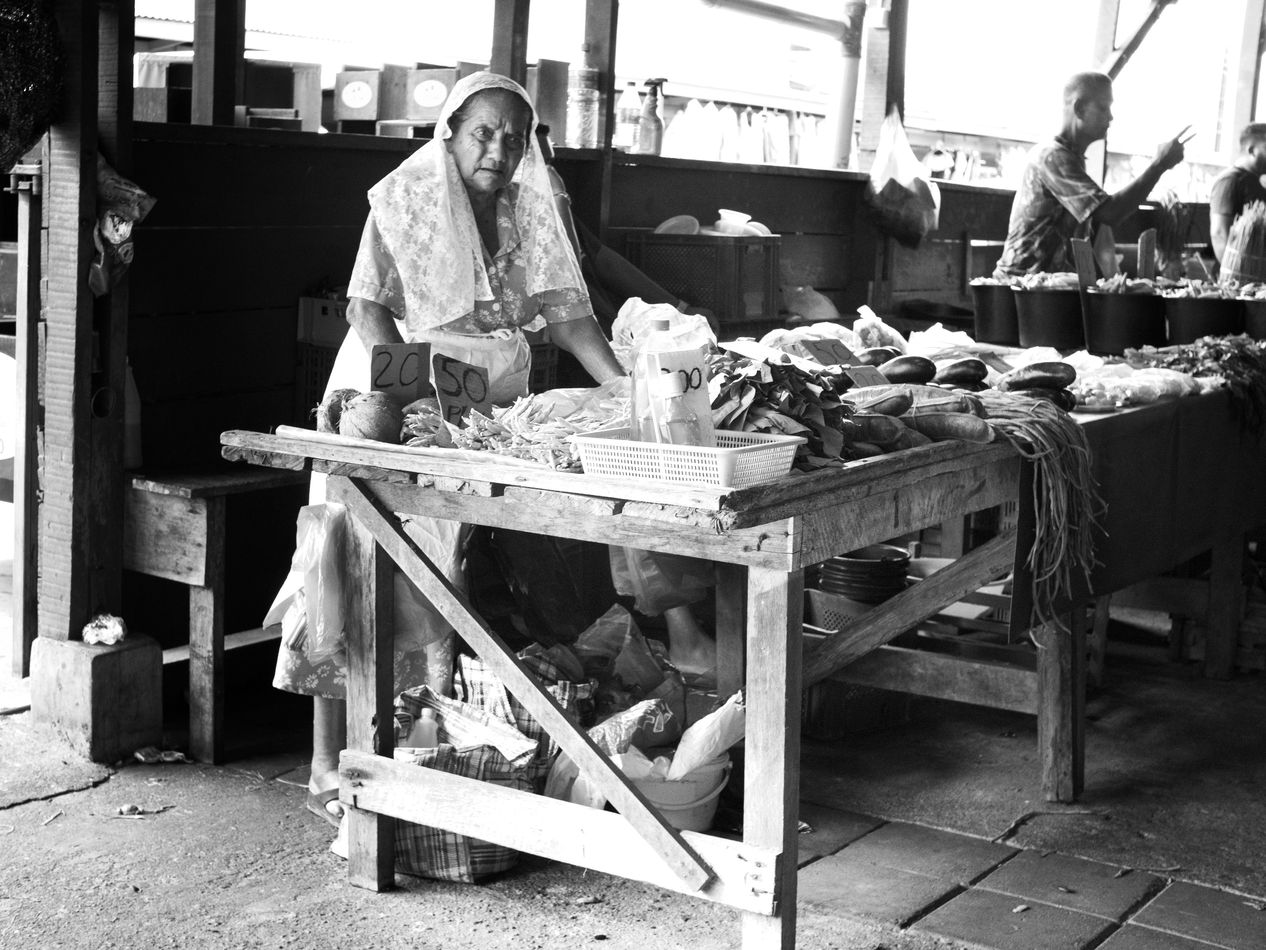
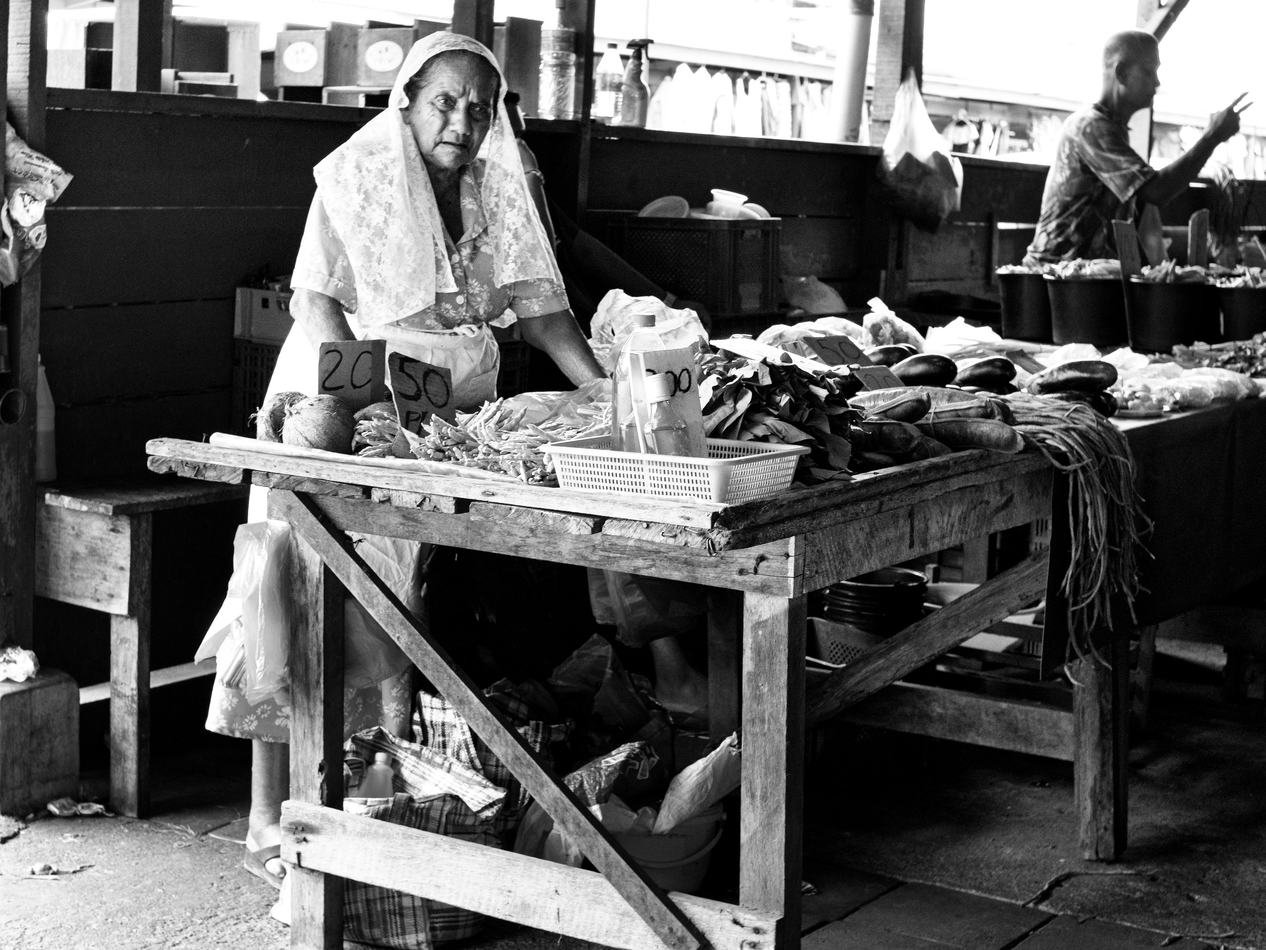
photo: publish reviewed fh-0085

diff --git a/photography/everything/index.html b/photography/everything/index.html
@@ -107,7 +107,7 @@
           <a class="ev-item" href="/photography/p/fh-0094/" style="--r:1.3333;--tilt:-0.02deg" data-place="suriname" data-tone="bw" data-v-src="/photography/photos/2026/fh-0094.jpg?rev=96bccf48eaa41582907d726473a6a912c49e7d84bbbd323010bdfc617bcc0fec" data-v-w="2560" data-v-h="1920" data-v-title="Kwatta market entry" data-v-desc="Two women at the Kwatta market entry. One is adjusting her hair and Brazil baseball hat while the other looks over her shoulder into the distance." data-v-meta="Paramaribo · 30 September 2026, 09:59:47" data-v-from="From More September markets, 20th &amp; 30th, frame 1" data-v-from-href="/photography/sheets/2026-09-september-markets/#frame-1" data-v-wall="On the black and white wall, place 5" data-v-wall-href="/photography/#wall-bw"><img src="/cdn-cgi/image/width=300,fit=scale-down,format=auto/photography/photos/2026/fh-0094.jpg?rev=96bccf48eaa41582907d726473a6a912c49e7d84bbbd323010bdfc617bcc0fec" srcset="/cdn-cgi/image/width=300,fit=scale-down,format=auto/photography/photos/2026/fh-0094.jpg?rev=96bccf48eaa41582907d726473a6a912c49e7d84bbbd323010bdfc617bcc0fec 300w, /cdn-cgi/image/width=600,fit=scale-down,format=auto/photography/photos/2026/fh-0094.jpg?rev=96bccf48eaa41582907d726473a6a912c49e7d84bbbd323010bdfc617bcc0fec 600w" sizes="(max-width: 760px) 120px, 217px" data-orig="/photography/photos/2026/fh-0094.jpg?rev=96bccf48eaa41582907d726473a6a912c49e7d84bbbd323010bdfc617bcc0fec" width="2560" height="1920" alt="Two women at the Kwatta market entry. One is adjusting her hair and Brazil baseball hat while the other looks over her shoulder into the distance." loading="lazy" decoding="async"><span class="ev-cap" aria-hidden="true">Kwatta market entry</span></a>
           <a class="ev-item" href="/photography/p/fh-0099/" style="--r:1.3333;--tilt:0.42deg" data-place="suriname" data-tone="bw" data-v-src="/photography/photos/2026/fh-0099.jpg?rev=d26bb1501d71a259e38e7f41c6303a270de6aceccd259e87aeefb9f3c2bda934" data-v-w="2560" data-v-h="1920" data-v-title="Frame 6, More September markets, 20th &amp; 30th" data-v-desc="The torso of a lady coming from the Sunday market wearing a white shirt with a striped shirt underneath that." data-v-meta="Paramaribo · 20 September 2026, 12:50:24" data-v-from="From More September markets, 20th &amp; 30th, frame 6" data-v-from-href="/photography/sheets/2026-09-september-markets/#frame-6" data-v-wall="" data-v-wall-href=""><img src="/cdn-cgi/image/width=300,fit=scale-down,format=auto/photography/photos/2026/fh-0099.jpg?rev=d26bb1501d71a259e38e7f41c6303a270de6aceccd259e87aeefb9f3c2bda934" srcset="/cdn-cgi/image/width=300,fit=scale-down,format=auto/photography/photos/2026/fh-0099.jpg?rev=d26bb1501d71a259e38e7f41c6303a270de6aceccd259e87aeefb9f3c2bda934 300w, /cdn-cgi/image/width=600,fit=scale-down,format=auto/photography/photos/2026/fh-0099.jpg?rev=d26bb1501d71a259e38e7f41c6303a270de6aceccd259e87aeefb9f3c2bda934 600w" sizes="(max-width: 760px) 120px, 217px" data-orig="/photography/photos/2026/fh-0099.jpg?rev=d26bb1501d71a259e38e7f41c6303a270de6aceccd259e87aeefb9f3c2bda934" width="2560" height="1920" alt="The torso of a lady coming from the Sunday market wearing a white shirt with a striped shirt underneath that." loading="lazy" decoding="async"><span class="ev-cap" aria-hidden="true">Frame 6, More September markets, 20th &amp; 30th</span></a>
           <a class="ev-item" href="/photography/p/fh-0098/" style="--r:1.3326;--tilt:-0.07deg" data-place="suriname" data-tone="bw" data-v-src="/photography/photos/2026/fh-0098.jpg?rev=8652f5dbf4387ea09c738aa854f036c93f4d0110fc0e1dc6d9416de8c3fdb4c5" data-v-w="2560" data-v-h="1921" data-v-title="Frame 5, More September markets, 20th &amp; 30th" data-v-desc="Man at the Sunday market on the Grote Combeweg, enjoying his cigarette, smelling stem of leaves from a fresh herbal plant." data-v-meta="Paramaribo · 20 September 2026, 12:49:17" data-v-from="From More September markets, 20th &amp; 30th, frame 5" data-v-from-href="/photography/sheets/2026-09-september-markets/#frame-5" data-v-wall="" data-v-wall-href=""><img src="/cdn-cgi/image/width=300,fit=scale-down,format=auto/photography/photos/2026/fh-0098.jpg?rev=8652f5dbf4387ea09c738aa854f036c93f4d0110fc0e1dc6d9416de8c3fdb4c5" srcset="/cdn-cgi/image/width=300,fit=scale-down,format=auto/photography/photos/2026/fh-0098.jpg?rev=8652f5dbf4387ea09c738aa854f036c93f4d0110fc0e1dc6d9416de8c3fdb4c5 300w, /cdn-cgi/image/width=600,fit=scale-down,format=auto/photography/photos/2026/fh-0098.jpg?rev=8652f5dbf4387ea09c738aa854f036c93f4d0110fc0e1dc6d9416de8c3fdb4c5 600w" sizes="(max-width: 760px) 120px, 217px" data-orig="/photography/photos/2026/fh-0098.jpg?rev=8652f5dbf4387ea09c738aa854f036c93f4d0110fc0e1dc6d9416de8c3fdb4c5" width="2560" height="1921" alt="Man at the Sunday market on the Grote Combeweg, enjoying his cigarette, smelling stem of leaves from a fresh herbal plant." loading="lazy" decoding="async"><span class="ev-cap" aria-hidden="true">Frame 5, More September markets, 20th &amp; 30th</span></a>
-          <a class="ev-item" href="/photography/p/fh-0085/" style="--r:1.3333;--tilt:-0.06deg" data-place="suriname" data-tone="bw" data-v-src="/photography/photos/2026/fh-0085.jpg?rev=48194a28650fb71476a9ce42c40a056d6bbbbbbdcf239d1583c1b36d1fff10d3" data-v-w="2560" data-v-h="1920" data-v-title="Frame 5, 16 September, the market" data-v-desc="An older woman in a lace headscarf stands behind her market table, greens and aubergines laid out with handwritten price cards." data-v-meta="16 September 2026, 11:32" data-v-from="From 16 September, the market, frame 5" data-v-from-href="/photography/sheets/2026-09-16-market/#frame-5" data-v-wall="" data-v-wall-href=""><img src="/cdn-cgi/image/width=300,fit=scale-down,format=auto/photography/photos/2026/fh-0085.jpg?rev=48194a28650fb71476a9ce42c40a056d6bbbbbbdcf239d1583c1b36d1fff10d3" srcset="/cdn-cgi/image/width=300,fit=scale-down,format=auto/photography/photos/2026/fh-0085.jpg?rev=48194a28650fb71476a9ce42c40a056d6bbbbbbdcf239d1583c1b36d1fff10d3 300w, /cdn-cgi/image/width=600,fit=scale-down,format=auto/photography/photos/2026/fh-0085.jpg?rev=48194a28650fb71476a9ce42c40a056d6bbbbbbdcf239d1583c1b36d1fff10d3 600w" sizes="(max-width: 760px) 120px, 217px" data-orig="/photography/photos/2026/fh-0085.jpg?rev=48194a28650fb71476a9ce42c40a056d6bbbbbbdcf239d1583c1b36d1fff10d3" width="2560" height="1920" alt="An older woman in a lace headscarf stands behind her market table, greens and aubergines laid out with handwritten price cards." loading="lazy" decoding="async"><span class="ev-cap" aria-hidden="true">Frame 5, 16 September, the market</span></a>
+          <a class="ev-item" href="/photography/p/fh-0085/" style="--r:1.3326;--tilt:-0.06deg" data-place="suriname" data-tone="bw" data-v-src="/photography/photos/2026/fh-0085.jpg?rev=d2197e35e6f573376fac03a990ac7667700d8f3621ca6a68453bbbf493c1e3f8" data-v-w="2560" data-v-h="1921" data-v-title="Frame 5, 16 September, the market" data-v-desc="An older woman in a lace headscarf stands behind her market table, greens and aubergines laid out with handwritten price cards." data-v-meta="16 September 2026, 11:32" data-v-from="From 16 September, the market, frame 5" data-v-from-href="/photography/sheets/2026-09-16-market/#frame-5" data-v-wall="" data-v-wall-href=""><img src="/cdn-cgi/image/width=300,fit=scale-down,format=auto/photography/photos/2026/fh-0085.jpg?rev=d2197e35e6f573376fac03a990ac7667700d8f3621ca6a68453bbbf493c1e3f8" srcset="/cdn-cgi/image/width=300,fit=scale-down,format=auto/photography/photos/2026/fh-0085.jpg?rev=d2197e35e6f573376fac03a990ac7667700d8f3621ca6a68453bbbf493c1e3f8 300w, /cdn-cgi/image/width=600,fit=scale-down,format=auto/photography/photos/2026/fh-0085.jpg?rev=d2197e35e6f573376fac03a990ac7667700d8f3621ca6a68453bbbf493c1e3f8 600w" sizes="(max-width: 760px) 120px, 217px" data-orig="/photography/photos/2026/fh-0085.jpg?rev=d2197e35e6f573376fac03a990ac7667700d8f3621ca6a68453bbbf493c1e3f8" width="2560" height="1921" alt="An older woman in a lace headscarf stands behind her market table, greens and aubergines laid out with handwritten price cards." loading="lazy" decoding="async"><span class="ev-cap" aria-hidden="true">Frame 5, 16 September, the market</span></a>
           <a class="ev-item" href="/photography/p/fh-0084/" style="--r:1.3333;--tilt:0.33deg" data-place="suriname" data-tone="bw" data-v-src="/photography/photos/2026/fh-0084.jpg?rev=7eb1b7d4a69b5e9d3864c0ec6f4d03da9401060444bb5ab143377579bb47c31a" data-v-w="2560" data-v-h="1920" data-v-title="Frame 4, 16 September, the market" data-v-desc="Two hands meet over a market table as money changes hands. A man in sunglasses stands at the stall and the seller sits behind it in a white headscarf." data-v-meta="16 September 2026, 11:25" data-v-from="From 16 September, the market, frame 4" data-v-from-href="/photography/sheets/2026-09-16-market/#frame-4" data-v-wall="" data-v-wall-href=""><img src="/cdn-cgi/image/width=300,fit=scale-down,format=auto/photography/photos/2026/fh-0084.jpg?rev=7eb1b7d4a69b5e9d3864c0ec6f4d03da9401060444bb5ab143377579bb47c31a" srcset="/cdn-cgi/image/width=300,fit=scale-down,format=auto/photography/photos/2026/fh-0084.jpg?rev=7eb1b7d4a69b5e9d3864c0ec6f4d03da9401060444bb5ab143377579bb47c31a 300w, /cdn-cgi/image/width=600,fit=scale-down,format=auto/photography/photos/2026/fh-0084.jpg?rev=7eb1b7d4a69b5e9d3864c0ec6f4d03da9401060444bb5ab143377579bb47c31a 600w" sizes="(max-width: 760px) 120px, 217px" data-orig="/photography/photos/2026/fh-0084.jpg?rev=7eb1b7d4a69b5e9d3864c0ec6f4d03da9401060444bb5ab143377579bb47c31a" width="2560" height="1920" alt="Two hands meet over a market table as money changes hands. A man in sunglasses stands at the stall and the seller sits behind it in a white headscarf." loading="lazy" decoding="async"><span class="ev-cap" aria-hidden="true">Frame 4, 16 September, the market</span></a>
           <a class="ev-item" href="/photography/p/fh-0083/" style="--r:1.3333;--tilt:0.74deg" data-place="suriname" data-tone="bw" data-v-src="/photography/photos/2026/fh-0083.jpg?rev=afe93000277b1ca3fc66fe35ea94bcbbd86a07576a92ae240781e07c3e8441c3" data-v-w="2560" data-v-h="1920" data-v-title="Frame 3, 16 September, the market" data-v-desc="A vegetable seller sits behind his stall, framed from the chest down. Long beans and bitter gourd are spread on foil in front of him with handwritten price cards." data-v-meta="16 September 2026, 11:25" data-v-from="From 16 September, the market, frame 3" data-v-from-href="/photography/sheets/2026-09-16-market/#frame-3" data-v-wall="" data-v-wall-href=""><img src="/cdn-cgi/image/width=300,fit=scale-down,format=auto/photography/photos/2026/fh-0083.jpg?rev=afe93000277b1ca3fc66fe35ea94bcbbd86a07576a92ae240781e07c3e8441c3" srcset="/cdn-cgi/image/width=300,fit=scale-down,format=auto/photography/photos/2026/fh-0083.jpg?rev=afe93000277b1ca3fc66fe35ea94bcbbd86a07576a92ae240781e07c3e8441c3 300w, /cdn-cgi/image/width=600,fit=scale-down,format=auto/photography/photos/2026/fh-0083.jpg?rev=afe93000277b1ca3fc66fe35ea94bcbbd86a07576a92ae240781e07c3e8441c3 600w" sizes="(max-width: 760px) 120px, 217px" data-orig="/photography/photos/2026/fh-0083.jpg?rev=afe93000277b1ca3fc66fe35ea94bcbbd86a07576a92ae240781e07c3e8441c3" width="2560" height="1920" alt="A vegetable seller sits behind his stall, framed from the chest down. Long beans and bitter gourd are spread on foil in front of him with handwritten price cards." loading="lazy" decoding="async"><span class="ev-cap" aria-hidden="true">Frame 3, 16 September, the market</span></a>
           <a class="ev-item" href="/photography/p/fh-0082/" style="--r:1.3333;--tilt:-0.66deg" data-place="suriname" data-tone="bw" data-v-src="/photography/photos/2026/fh-0082.jpg?rev=a4d714afacf1c259f435d472354178da2475fb72c502e93b87b946a0258f99fd" data-v-w="2560" data-v-h="1920" data-v-title="Frame 2, 16 September, the market" data-v-desc="A couple walking through the market, photographed from the waist down, their hands just meeting between them. The stall behind is numbered 58." data-v-meta="16 September 2026, 11:22" data-v-from="From 16 September, the market, frame 2" data-v-from-href="/photography/sheets/2026-09-16-market/#frame-2" data-v-wall="" data-v-wall-href=""><img src="/cdn-cgi/image/width=300,fit=scale-down,format=auto/photography/photos/2026/fh-0082.jpg?rev=a4d714afacf1c259f435d472354178da2475fb72c502e93b87b946a0258f99fd" srcset="/cdn-cgi/image/width=300,fit=scale-down,format=auto/photography/photos/2026/fh-0082.jpg?rev=a4d714afacf1c259f435d472354178da2475fb72c502e93b87b946a0258f99fd 300w, /cdn-cgi/image/width=600,fit=scale-down,format=auto/photography/photos/2026/fh-0082.jpg?rev=a4d714afacf1c259f435d472354178da2475fb72c502e93b87b946a0258f99fd 600w" sizes="(max-width: 760px) 120px, 217px" data-orig="/photography/photos/2026/fh-0082.jpg?rev=a4d714afacf1c259f435d472354178da2475fb72c502e93b87b946a0258f99fd" width="2560" height="1920" alt="A couple walking through the market, photographed from the waist down, their hands just meeting between them. The stall behind is numbered 58." loading="lazy" decoding="async"><span class="ev-cap" aria-hidden="true">Frame 2, 16 September, the market</span></a>

diff --git a/photography/sheets/index.html b/photography/sheets/index.html
@@ -90,7 +90,7 @@
       </li>
       <li class="sheet-entry" style="--tilt:0.50deg">
         <div class="sheet-margin"></div>
-        <a class="sheet-mini" href="/photography/sheets/2026-09-16-market/" tabindex="-1" aria-hidden="true"><span class="mini-edge">faisalhenar.com ▸ 16 September, the market ▸ 5 frames</span><span class="mini-grid" style="--cols:5"><span class="mini-frame"><img src="/cdn-cgi/image/width=400,fit=scale-down,format=auto/photography/photos/2026/fh-0086.jpg?rev=44a2c868c591eb7c0a8722d54b66adce5eff86d0c9de222544d00afaa6a4e450" srcset="/cdn-cgi/image/width=400,fit=scale-down,format=auto/photography/photos/2026/fh-0086.jpg?rev=44a2c868c591eb7c0a8722d54b66adce5eff86d0c9de222544d00afaa6a4e450 400w" sizes="90px" data-orig="/photography/photos/2026/fh-0086.jpg?rev=44a2c868c591eb7c0a8722d54b66adce5eff86d0c9de222544d00afaa6a4e450" width="2560" height="1920" alt="An arm reaches in from the right to turn a key in the lock of a red wooden door." loading="lazy" decoding="async"><span class="mini-no">1 ▸ 1A</span></span><span class="mini-frame"><img src="/cdn-cgi/image/width=400,fit=scale-down,format=auto/photography/photos/2026/fh-0082.jpg?rev=a4d714afacf1c259f435d472354178da2475fb72c502e93b87b946a0258f99fd" srcset="/cdn-cgi/image/width=400,fit=scale-down,format=auto/photography/photos/2026/fh-0082.jpg?rev=a4d714afacf1c259f435d472354178da2475fb72c502e93b87b946a0258f99fd 400w" sizes="90px" data-orig="/photography/photos/2026/fh-0082.jpg?rev=a4d714afacf1c259f435d472354178da2475fb72c502e93b87b946a0258f99fd" width="2560" height="1920" alt="A couple walking through the market, photographed from the waist down, their hands just meeting between them. The stall behind is numbered 58." loading="lazy" decoding="async"><span class="mini-no">2 ▸ 2A</span></span><span class="mini-frame"><img src="/cdn-cgi/image/width=400,fit=scale-down,format=auto/photography/photos/2026/fh-0083.jpg?rev=afe93000277b1ca3fc66fe35ea94bcbbd86a07576a92ae240781e07c3e8441c3" srcset="/cdn-cgi/image/width=400,fit=scale-down,format=auto/photography/photos/2026/fh-0083.jpg?rev=afe93000277b1ca3fc66fe35ea94bcbbd86a07576a92ae240781e07c3e8441c3 400w" sizes="90px" data-orig="/photography/photos/2026/fh-0083.jpg?rev=afe93000277b1ca3fc66fe35ea94bcbbd86a07576a92ae240781e07c3e8441c3" width="2560" height="1920" alt="A vegetable seller sits behind his stall, framed from the chest down. Long beans and bitter gourd are spread on foil in front of him with handwritten price cards." loading="lazy" decoding="async"><span class="mini-no">3 ▸ 3A</span></span><span class="mini-frame frame--circled"><img src="/cdn-cgi/image/width=400,fit=scale-down,format=auto/photography/photos/2026/fh-0084.jpg?rev=7eb1b7d4a69b5e9d3864c0ec6f4d03da9401060444bb5ab143377579bb47c31a" srcset="/cdn-cgi/image/width=400,fit=scale-down,format=auto/photography/photos/2026/fh-0084.jpg?rev=7eb1b7d4a69b5e9d3864c0ec6f4d03da9401060444bb5ab143377579bb47c31a 400w" sizes="90px" data-orig="/photography/photos/2026/fh-0084.jpg?rev=7eb1b7d4a69b5e9d3864c0ec6f4d03da9401060444bb5ab143377579bb47c31a" width="2560" height="1920" alt="Two hands meet over a market table as money changes hands. A man in sunglasses stands at the stall and the seller sits behind it in a white headscarf." loading="lazy" decoding="async"><span class="mini-no">4 ▸ 4A</span><svg class="circle" viewBox="0 0 100 80" preserveAspectRatio="none" aria-hidden="true" focusable="false"><path d="M97.09 45.42 L96.61 48.34 L95.68 51.21 L94.28 53.96 L92.42 56.54 L90.17 58.92 L87.59 61.08 L84.79 63.02 L81.87 64.78 L78.88 66.41 L75.88 67.96 L72.87 69.48 L69.83 70.98 L66.70 72.47 L63.44 73.90 L60.01 75.20 L56.40 76.31 L52.61 77.12 L48.70 77.58 L44.74 77.63 L40.80 77.25 L36.97 76.47 L33.31 75.33 L29.84 73.91 L26.57 72.27 L23.49 70.49 L20.55 68.61 L17.73 66.66 L15.00 64.63 L12.38 62.51 L9.89 60.26 L7.61 57.86 L5.61 55.30 L3.98 52.58 L2.79 49.72 L2.08 46.77 L1.85 43.78 L2.07 40.81 L2.67 37.88 L3.56 35.04 L4.64 32.27 L5.85 29.56 L7.14 26.89 L8.50 24.24 L9.95 21.58 L11.57 18.93 L13.42 16.31 L15.57 13.79 L18.07 11.43 L20.95 9.31 L24.17 7.51 L27.69 6.06 L31.43 4.99 L35.30 4.29 L39.21 3.90 L43.10 3.76 L46.95 3.81 L50.75 3.96 L54.51 4.19 L58.27 4.47 L62.05 4.82 L65.86 5.29 L69.68 5.95 L73.48 6.84 L77.16 8.04 L80.65 9.56 L83.87 11.42 L86.73 13.59 L89.22 16.02 L91.31 18.65 L93.04 21.41 L94.47 24.24 L95.66 27.10 L96.67 29.98 L97.54 32.88 L98.27 35.81 L98.83 38.78 L99.15 41.80 L99.17 44.85 L98.79 47.90 L97.95 50.91 L96.61 53.82 L94.80 56.56" pathLength="100" stroke-width="1.25" opacity="0.92"/><path d="M97.09 45.42 L96.61 48.34 L95.68 51.21 L94.28 53.96 L92.42 56.54 L90.17 58.92 L87.59 61.08 L84.79 63.02 L81.87 64.78 L78.88 66.41 L75.88 67.96 L72.87 69.48 L69.83 70.98 L66.70 72.47 L63.44 73.90 L60.01 75.20 L56.40 76.31 L52.61 77.12 L48.70 77.58 L44.74 77.63 L40.80 77.25 L36.97 76.47 L33.31 75.33 L29.84 73.91 L26.57 72.27 L23.49 70.49 L20.55 68.61 L17.73 66.66 L15.00 64.63 L12.38 62.51 L9.89 60.26 L7.61 57.86 L5.61 55.30 L3.98 52.58 L2.79 49.72 L2.08 46.77 L1.85 43.78 L2.07 40.81 L2.67 37.88 L3.56 35.04 L4.64 32.27 L5.85 29.56 L7.14 26.89 L8.50 24.24 L9.95 21.58 L11.57 18.93 L13.42 16.31 L15.57 13.79 L18.07 11.43 L20.95 9.31 L24.17 7.51 L27.69 6.06 L31.43 4.99 L35.30 4.29 L39.21 3.90 L43.10 3.76 L46.95 3.81 L50.75 3.96 L54.51 4.19 L58.27 4.47 L62.05 4.82 L65.86 5.29 L69.68 5.95 L73.48 6.84 L77.16 8.04 L80.65 9.56 L83.87 11.42 L86.73 13.59 L89.22 16.02 L91.31 18.65 L93.04 21.41 L94.47 24.24 L95.66 27.10 L96.67 29.98 L97.54 32.88 L98.27 35.81 L98.83 38.78 L99.15 41.80 L99.17 44.85 L98.79 47.90 L97.95 50.91 L96.61 53.82 L94.80 56.56" pathLength="100" stroke-width="0.5" opacity="0.45" transform="translate(0.6 0.5)"/></svg></span><span class="mini-frame"><img src="/cdn-cgi/image/width=400,fit=scale-down,format=auto/photography/photos/2026/fh-0085.jpg?rev=48194a28650fb71476a9ce42c40a056d6bbbbbbdcf239d1583c1b36d1fff10d3" srcset="/cdn-cgi/image/width=400,fit=scale-down,format=auto/photography/photos/2026/fh-0085.jpg?rev=48194a28650fb71476a9ce42c40a056d6bbbbbbdcf239d1583c1b36d1fff10d3 400w" sizes="90px" data-orig="/photography/photos/2026/fh-0085.jpg?rev=48194a28650fb71476a9ce42c40a056d6bbbbbbdcf239d1583c1b36d1fff10d3" width="2560" height="1920" alt="An older woman in a lace headscarf stands behind her market table, greens and aubergines laid out with handwritten price cards." loading="lazy" decoding="async"><span class="mini-no">5 ▸ 5A</span></span></span></a>
+        <a class="sheet-mini" href="/photography/sheets/2026-09-16-market/" tabindex="-1" aria-hidden="true"><span class="mini-edge">faisalhenar.com ▸ 16 September, the market ▸ 5 frames</span><span class="mini-grid" style="--cols:5"><span class="mini-frame"><img src="/cdn-cgi/image/width=400,fit=scale-down,format=auto/photography/photos/2026/fh-0086.jpg?rev=44a2c868c591eb7c0a8722d54b66adce5eff86d0c9de222544d00afaa6a4e450" srcset="/cdn-cgi/image/width=400,fit=scale-down,format=auto/photography/photos/2026/fh-0086.jpg?rev=44a2c868c591eb7c0a8722d54b66adce5eff86d0c9de222544d00afaa6a4e450 400w" sizes="90px" data-orig="/photography/photos/2026/fh-0086.jpg?rev=44a2c868c591eb7c0a8722d54b66adce5eff86d0c9de222544d00afaa6a4e450" width="2560" height="1920" alt="An arm reaches in from the right to turn a key in the lock of a red wooden door." loading="lazy" decoding="async"><span class="mini-no">1 ▸ 1A</span></span><span class="mini-frame"><img src="/cdn-cgi/image/width=400,fit=scale-down,format=auto/photography/photos/2026/fh-0082.jpg?rev=a4d714afacf1c259f435d472354178da2475fb72c502e93b87b946a0258f99fd" srcset="/cdn-cgi/image/width=400,fit=scale-down,format=auto/photography/photos/2026/fh-0082.jpg?rev=a4d714afacf1c259f435d472354178da2475fb72c502e93b87b946a0258f99fd 400w" sizes="90px" data-orig="/photography/photos/2026/fh-0082.jpg?rev=a4d714afacf1c259f435d472354178da2475fb72c502e93b87b946a0258f99fd" width="2560" height="1920" alt="A couple walking through the market, photographed from the waist down, their hands just meeting between them. The stall behind is numbered 58." loading="lazy" decoding="async"><span class="mini-no">2 ▸ 2A</span></span><span class="mini-frame"><img src="/cdn-cgi/image/width=400,fit=scale-down,format=auto/photography/photos/2026/fh-0083.jpg?rev=afe93000277b1ca3fc66fe35ea94bcbbd86a07576a92ae240781e07c3e8441c3" srcset="/cdn-cgi/image/width=400,fit=scale-down,format=auto/photography/photos/2026/fh-0083.jpg?rev=afe93000277b1ca3fc66fe35ea94bcbbd86a07576a92ae240781e07c3e8441c3 400w" sizes="90px" data-orig="/photography/photos/2026/fh-0083.jpg?rev=afe93000277b1ca3fc66fe35ea94bcbbd86a07576a92ae240781e07c3e8441c3" width="2560" height="1920" alt="A vegetable seller sits behind his stall, framed from the chest down. Long beans and bitter gourd are spread on foil in front of him with handwritten price cards." loading="lazy" decoding="async"><span class="mini-no">3 ▸ 3A</span></span><span class="mini-frame frame--circled"><img src="/cdn-cgi/image/width=400,fit=scale-down,format=auto/photography/photos/2026/fh-0084.jpg?rev=7eb1b7d4a69b5e9d3864c0ec6f4d03da9401060444bb5ab143377579bb47c31a" srcset="/cdn-cgi/image/width=400,fit=scale-down,format=auto/photography/photos/2026/fh-0084.jpg?rev=7eb1b7d4a69b5e9d3864c0ec6f4d03da9401060444bb5ab143377579bb47c31a 400w" sizes="90px" data-orig="/photography/photos/2026/fh-0084.jpg?rev=7eb1b7d4a69b5e9d3864c0ec6f4d03da9401060444bb5ab143377579bb47c31a" width="2560" height="1920" alt="Two hands meet over a market table as money changes hands. A man in sunglasses stands at the stall and the seller sits behind it in a white headscarf." loading="lazy" decoding="async"><span class="mini-no">4 ▸ 4A</span><svg class="circle" viewBox="0 0 100 80" preserveAspectRatio="none" aria-hidden="true" focusable="false"><path d="M97.09 45.42 L96.61 48.34 L95.68 51.21 L94.28 53.96 L92.42 56.54 L90.17 58.92 L87.59 61.08 L84.79 63.02 L81.87 64.78 L78.88 66.41 L75.88 67.96 L72.87 69.48 L69.83 70.98 L66.70 72.47 L63.44 73.90 L60.01 75.20 L56.40 76.31 L52.61 77.12 L48.70 77.58 L44.74 77.63 L40.80 77.25 L36.97 76.47 L33.31 75.33 L29.84 73.91 L26.57 72.27 L23.49 70.49 L20.55 68.61 L17.73 66.66 L15.00 64.63 L12.38 62.51 L9.89 60.26 L7.61 57.86 L5.61 55.30 L3.98 52.58 L2.79 49.72 L2.08 46.77 L1.85 43.78 L2.07 40.81 L2.67 37.88 L3.56 35.04 L4.64 32.27 L5.85 29.56 L7.14 26.89 L8.50 24.24 L9.95 21.58 L11.57 18.93 L13.42 16.31 L15.57 13.79 L18.07 11.43 L20.95 9.31 L24.17 7.51 L27.69 6.06 L31.43 4.99 L35.30 4.29 L39.21 3.90 L43.10 3.76 L46.95 3.81 L50.75 3.96 L54.51 4.19 L58.27 4.47 L62.05 4.82 L65.86 5.29 L69.68 5.95 L73.48 6.84 L77.16 8.04 L80.65 9.56 L83.87 11.42 L86.73 13.59 L89.22 16.02 L91.31 18.65 L93.04 21.41 L94.47 24.24 L95.66 27.10 L96.67 29.98 L97.54 32.88 L98.27 35.81 L98.83 38.78 L99.15 41.80 L99.17 44.85 L98.79 47.90 L97.95 50.91 L96.61 53.82 L94.80 56.56" pathLength="100" stroke-width="1.25" opacity="0.92"/><path d="M97.09 45.42 L96.61 48.34 L95.68 51.21 L94.28 53.96 L92.42 56.54 L90.17 58.92 L87.59 61.08 L84.79 63.02 L81.87 64.78 L78.88 66.41 L75.88 67.96 L72.87 69.48 L69.83 70.98 L66.70 72.47 L63.44 73.90 L60.01 75.20 L56.40 76.31 L52.61 77.12 L48.70 77.58 L44.74 77.63 L40.80 77.25 L36.97 76.47 L33.31 75.33 L29.84 73.91 L26.57 72.27 L23.49 70.49 L20.55 68.61 L17.73 66.66 L15.00 64.63 L12.38 62.51 L9.89 60.26 L7.61 57.86 L5.61 55.30 L3.98 52.58 L2.79 49.72 L2.08 46.77 L1.85 43.78 L2.07 40.81 L2.67 37.88 L3.56 35.04 L4.64 32.27 L5.85 29.56 L7.14 26.89 L8.50 24.24 L9.95 21.58 L11.57 18.93 L13.42 16.31 L15.57 13.79 L18.07 11.43 L20.95 9.31 L24.17 7.51 L27.69 6.06 L31.43 4.99 L35.30 4.29 L39.21 3.90 L43.10 3.76 L46.95 3.81 L50.75 3.96 L54.51 4.19 L58.27 4.47 L62.05 4.82 L65.86 5.29 L69.68 5.95 L73.48 6.84 L77.16 8.04 L80.65 9.56 L83.87 11.42 L86.73 13.59 L89.22 16.02 L91.31 18.65 L93.04 21.41 L94.47 24.24 L95.66 27.10 L96.67 29.98 L97.54 32.88 L98.27 35.81 L98.83 38.78 L99.15 41.80 L99.17 44.85 L98.79 47.90 L97.95 50.91 L96.61 53.82 L94.80 56.56" pathLength="100" stroke-width="0.5" opacity="0.45" transform="translate(0.6 0.5)"/></svg></span><span class="mini-frame"><img src="/cdn-cgi/image/width=400,fit=scale-down,format=auto/photography/photos/2026/fh-0085.jpg?rev=d2197e35e6f573376fac03a990ac7667700d8f3621ca6a68453bbbf493c1e3f8" srcset="/cdn-cgi/image/width=400,fit=scale-down,format=auto/photography/photos/2026/fh-0085.jpg?rev=d2197e35e6f573376fac03a990ac7667700d8f3621ca6a68453bbbf493c1e3f8 400w" sizes="90px" data-orig="/photography/photos/2026/fh-0085.jpg?rev=d2197e35e6f573376fac03a990ac7667700d8f3621ca6a68453bbbf493c1e3f8" width="2560" height="1921" alt="An older woman in a lace headscarf stands behind her market table, greens and aubergines laid out with handwritten price cards." loading="lazy" decoding="async"><span class="mini-no">5 ▸ 5A</span></span></span></a>
         <div class="sheet-note">
           <h2><a href="/photography/sheets/2026-09-16-market/">16 September, the market</a></h2>
           <p class="sheet-meta">16 September 2026 · 5 frames</p>

diff --git a/photography/sheets/2026-09-16-market/index.html b/photography/sheets/2026-09-16-market/index.html
@@ -86,7 +86,7 @@
           <svg class="circle" viewBox="0 0 100 80" preserveAspectRatio="none" aria-hidden="true" focusable="false"><path d="M97.09 45.42 L96.61 48.34 L95.68 51.21 L94.28 53.96 L92.42 56.54 L90.17 58.92 L87.59 61.08 L84.79 63.02 L81.87 64.78 L78.88 66.41 L75.88 67.96 L72.87 69.48 L69.83 70.98 L66.70 72.47 L63.44 73.90 L60.01 75.20 L56.40 76.31 L52.61 77.12 L48.70 77.58 L44.74 77.63 L40.80 77.25 L36.97 76.47 L33.31 75.33 L29.84 73.91 L26.57 72.27 L23.49 70.49 L20.55 68.61 L17.73 66.66 L15.00 64.63 L12.38 62.51 L9.89 60.26 L7.61 57.86 L5.61 55.30 L3.98 52.58 L2.79 49.72 L2.08 46.77 L1.85 43.78 L2.07 40.81 L2.67 37.88 L3.56 35.04 L4.64 32.27 L5.85 29.56 L7.14 26.89 L8.50 24.24 L9.95 21.58 L11.57 18.93 L13.42 16.31 L15.57 13.79 L18.07 11.43 L20.95 9.31 L24.17 7.51 L27.69 6.06 L31.43 4.99 L35.30 4.29 L39.21 3.90 L43.10 3.76 L46.95 3.81 L50.75 3.96 L54.51 4.19 L58.27 4.47 L62.05 4.82 L65.86 5.29 L69.68 5.95 L73.48 6.84 L77.16 8.04 L80.65 9.56 L83.87 11.42 L86.73 13.59 L89.22 16.02 L91.31 18.65 L93.04 21.41 L94.47 24.24 L95.66 27.10 L96.67 29.98 L97.54 32.88 L98.27 35.81 L98.83 38.78 L99.15 41.80 L99.17 44.85 L98.79 47.90 L97.95 50.91 L96.61 53.82 L94.80 56.56" pathLength="100" stroke-width="1.25" opacity="0.92"/><path d="M97.09 45.42 L96.61 48.34 L95.68 51.21 L94.28 53.96 L92.42 56.54 L90.17 58.92 L87.59 61.08 L84.79 63.02 L81.87 64.78 L78.88 66.41 L75.88 67.96 L72.87 69.48 L69.83 70.98 L66.70 72.47 L63.44 73.90 L60.01 75.20 L56.40 76.31 L52.61 77.12 L48.70 77.58 L44.74 77.63 L40.80 77.25 L36.97 76.47 L33.31 75.33 L29.84 73.91 L26.57 72.27 L23.49 70.49 L20.55 68.61 L17.73 66.66 L15.00 64.63 L12.38 62.51 L9.89 60.26 L7.61 57.86 L5.61 55.30 L3.98 52.58 L2.79 49.72 L2.08 46.77 L1.85 43.78 L2.07 40.81 L2.67 37.88 L3.56 35.04 L4.64 32.27 L5.85 29.56 L7.14 26.89 L8.50 24.24 L9.95 21.58 L11.57 18.93 L13.42 16.31 L15.57 13.79 L18.07 11.43 L20.95 9.31 L24.17 7.51 L27.69 6.06 L31.43 4.99 L35.30 4.29 L39.21 3.90 L43.10 3.76 L46.95 3.81 L50.75 3.96 L54.51 4.19 L58.27 4.47 L62.05 4.82 L65.86 5.29 L69.68 5.95 L73.48 6.84 L77.16 8.04 L80.65 9.56 L83.87 11.42 L86.73 13.59 L89.22 16.02 L91.31 18.65 L93.04 21.41 L94.47 24.24 L95.66 27.10 L96.67 29.98 L97.54 32.88 L98.27 35.81 L98.83 38.78 L99.15 41.80 L99.17 44.85 L98.79 47.90 L97.95 50.91 L96.61 53.82 L94.80 56.56" pathLength="100" stroke-width="0.5" opacity="0.45" transform="translate(0.6 0.5)"/></svg>
         </figure>
         <figure class="frame" id="frame-5" data-frame="5">
-          <a class="frame-photo" href="/photography/p/fh-0085/" data-v-src="/photography/photos/2026/fh-0085.jpg?rev=48194a28650fb71476a9ce42c40a056d6bbbbbbdcf239d1583c1b36d1fff10d3" data-v-w="2560" data-v-h="1920" data-v-title="Frame 5, 16 September, the market" data-v-desc="An older woman in a lace headscarf stands behind her market table, greens and aubergines laid out with handwritten price cards." data-v-meta="16 September 2026, 11:32" data-v-from="From 16 September, the market, frame 5" data-v-from-href="/photography/sheets/2026-09-16-market/#frame-5" data-v-wall="" data-v-wall-href="" aria-describedby="frame-5-cap"><img src="/cdn-cgi/image/width=400,fit=scale-down,format=auto/photography/photos/2026/fh-0085.jpg?rev=48194a28650fb71476a9ce42c40a056d6bbbbbbdcf239d1583c1b36d1fff10d3" srcset="/cdn-cgi/image/width=400,fit=scale-down,format=auto/photography/photos/2026/fh-0085.jpg?rev=48194a28650fb71476a9ce42c40a056d6bbbbbbdcf239d1583c1b36d1fff10d3 400w, /cdn-cgi/image/width=800,fit=scale-down,format=auto/photography/photos/2026/fh-0085.jpg?rev=48194a28650fb71476a9ce42c40a056d6bbbbbbdcf239d1583c1b36d1fff10d3 800w, /cdn-cgi/image/width=1200,fit=scale-down,format=auto/photography/photos/2026/fh-0085.jpg?rev=48194a28650fb71476a9ce42c40a056d6bbbbbbdcf239d1583c1b36d1fff10d3 1200w" sizes="(max-width: 559px) 45vw, (max-width: 999px) 30vw, 19vw" data-orig="/photography/photos/2026/fh-0085.jpg?rev=48194a28650fb71476a9ce42c40a056d6bbbbbbdcf239d1583c1b36d1fff10d3" width="2560" height="1920" alt="An older woman in a lace headscarf stands behind her market table, greens and aubergines laid out with handwritten price cards." loading="lazy" decoding="async"></a>
+          <a class="frame-photo" href="/photography/p/fh-0085/" data-v-src="/photography/photos/2026/fh-0085.jpg?rev=d2197e35e6f573376fac03a990ac7667700d8f3621ca6a68453bbbf493c1e3f8" data-v-w="2560" data-v-h="1921" data-v-title="Frame 5, 16 September, the market" data-v-desc="An older woman in a lace headscarf stands behind her market table, greens and aubergines laid out with handwritten price cards." data-v-meta="16 September 2026, 11:32" data-v-from="From 16 September, the market, frame 5" data-v-from-href="/photography/sheets/2026-09-16-market/#frame-5" data-v-wall="" data-v-wall-href="" aria-describedby="frame-5-cap"><img src="/cdn-cgi/image/width=400,fit=scale-down,format=auto/photography/photos/2026/fh-0085.jpg?rev=d2197e35e6f573376fac03a990ac7667700d8f3621ca6a68453bbbf493c1e3f8" srcset="/cdn-cgi/image/width=400,fit=scale-down,format=auto/photography/photos/2026/fh-0085.jpg?rev=d2197e35e6f573376fac03a990ac7667700d8f3621ca6a68453bbbf493c1e3f8 400w, /cdn-cgi/image/width=800,fit=scale-down,format=auto/photography/photos/2026/fh-0085.jpg?rev=d2197e35e6f573376fac03a990ac7667700d8f3621ca6a68453bbbf493c1e3f8 800w, /cdn-cgi/image/width=1200,fit=scale-down,format=auto/photography/photos/2026/fh-0085.jpg?rev=d2197e35e6f573376fac03a990ac7667700d8f3621ca6a68453bbbf493c1e3f8 1200w" sizes="(max-width: 559px) 45vw, (max-width: 999px) 30vw, 19vw" data-orig="/photography/photos/2026/fh-0085.jpg?rev=d2197e35e6f573376fac03a990ac7667700d8f3621ca6a68453bbbf493c1e3f8" width="2560" height="1921" alt="An older woman in a lace headscarf stands behind her market table, greens and aubergines laid out with handwritten price cards." loading="lazy" decoding="async"></a>
           <figcaption class="frame-cap" id="frame-5-cap"><span class="sr-only">Frame 5, 11:32</span><span aria-hidden="true">5 ▸ 5A</span><span class="frame-time" aria-hidden="true"> · 11:32</span></figcaption>
         </figure>
       </div>

diff --git a/photography/p/fh-0085/index.html b/photography/p/fh-0085/index.html
@@ -14,13 +14,13 @@
 <meta property="og:description" content="An older woman in a lace headscarf stands behind her market table, greens and aubergines laid out with handwritten price cards.">
 <meta property="og:type" content="website">
 <meta property="og:url" content="https://faisalhenar.com/photography/p/fh-0085/">
-<meta property="og:image" content="https://faisalhenar.com/cdn-cgi/image/width=1200,fit=scale-down,format=auto/photography/photos/2026/fh-0085.jpg?rev=48194a28650fb71476a9ce42c40a056d6bbbbbbdcf239d1583c1b36d1fff10d3">
+<meta property="og:image" content="https://faisalhenar.com/cdn-cgi/image/width=1200,fit=scale-down,format=auto/photography/photos/2026/fh-0085.jpg?rev=d2197e35e6f573376fac03a990ac7667700d8f3621ca6a68453bbbf493c1e3f8">
 <meta property="og:image:width" content="1200">
 <meta property="og:image:height" content="900">
 <meta name="twitter:card" content="summary_large_image">
 <meta name="twitter:title" content="Frame 5, 16 September, the market · Faisal Henar">
 <meta name="twitter:description" content="An older woman in a lace headscarf stands behind her market table, greens and aubergines laid out with handwritten price cards.">
-<meta name="twitter:image" content="https://faisalhenar.com/cdn-cgi/image/width=1200,fit=scale-down,format=auto/photography/photos/2026/fh-0085.jpg?rev=48194a28650fb71476a9ce42c40a056d6bbbbbbdcf239d1583c1b36d1fff10d3">
+<meta name="twitter:image" content="https://faisalhenar.com/cdn-cgi/image/width=1200,fit=scale-down,format=auto/photography/photos/2026/fh-0085.jpg?rev=d2197e35e6f573376fac03a990ac7667700d8f3621ca6a68453bbbf493c1e3f8">
 <link rel="preload" href="/photography/fonts/familjen-grotesk-latin.woff2" as="font" type="font/woff2" crossorigin>
 <link rel="stylesheet" href="/css/base.css?v=3">
 <link rel="stylesheet" href="/photography/room-assets/room.css?v=10">
@@ -57,7 +57,7 @@
       <nav class="room-nav" aria-label="Photography room"><a href="/photography/">The wall</a><span class="room-nav-dot" aria-hidden="true">·</span><a href="/photography/sheets/" aria-current="page">Contact sheets</a><span class="room-nav-dot" aria-hidden="true">·</span><a href="/photography/everything/">Everything <span class="room-nav-n">124</span></a></nav>
     </div>
     <figure class="photo">
-      <div class="photo-frame"><img src="/cdn-cgi/image/width=1200,fit=scale-down,format=auto/photography/photos/2026/fh-0085.jpg?rev=48194a28650fb71476a9ce42c40a056d6bbbbbbdcf239d1583c1b36d1fff10d3" srcset="/cdn-cgi/image/width=800,fit=scale-down,format=auto/photography/photos/2026/fh-0085.jpg?rev=48194a28650fb71476a9ce42c40a056d6bbbbbbdcf239d1583c1b36d1fff10d3 800w, /cdn-cgi/image/width=1200,fit=scale-down,format=auto/photography/photos/2026/fh-0085.jpg?rev=48194a28650fb71476a9ce42c40a056d6bbbbbbdcf239d1583c1b36d1fff10d3 1200w, /cdn-cgi/image/width=2000,fit=scale-down,format=auto/photography/photos/2026/fh-0085.jpg?rev=48194a28650fb71476a9ce42c40a056d6bbbbbbdcf239d1583c1b36d1fff10d3 2000w" sizes="(max-width: 760px) 100vw, 90vw" data-orig="/photography/photos/2026/fh-0085.jpg?rev=48194a28650fb71476a9ce42c40a056d6bbbbbbdcf239d1583c1b36d1fff10d3" width="2560" height="1920" alt="An older woman in a lace headscarf stands behind her market table, greens and aubergines laid out with handwritten price cards." fetchpriority="high" decoding="async"></div>
+      <div class="photo-frame"><img src="/cdn-cgi/image/width=1200,fit=scale-down,format=auto/photography/photos/2026/fh-0085.jpg?rev=d2197e35e6f573376fac03a990ac7667700d8f3621ca6a68453bbbf493c1e3f8" srcset="/cdn-cgi/image/width=800,fit=scale-down,format=auto/photography/photos/2026/fh-0085.jpg?rev=d2197e35e6f573376fac03a990ac7667700d8f3621ca6a68453bbbf493c1e3f8 800w, /cdn-cgi/image/width=1200,fit=scale-down,format=auto/photography/photos/2026/fh-0085.jpg?rev=d2197e35e6f573376fac03a990ac7667700d8f3621ca6a68453bbbf493c1e3f8 1200w, /cdn-cgi/image/width=2000,fit=scale-down,format=auto/photography/photos/2026/fh-0085.jpg?rev=d2197e35e6f573376fac03a990ac7667700d8f3621ca6a68453bbbf493c1e3f8 2000w" sizes="(max-width: 760px) 100vw, 90vw" data-orig="/photography/photos/2026/fh-0085.jpg?rev=d2197e35e6f573376fac03a990ac7667700d8f3621ca6a68453bbbf493c1e3f8" width="2560" height="1921" alt="An older woman in a lace headscarf stands behind her market table, greens and aubergines laid out with handwritten price cards." fetchpriority="high" decoding="async"></div>
       <figcaption class="photo-cap">
         <h1>Frame 5, 16 September, the market</h1>
         <p class="photo-desc">An older woman in a lace headscarf stands behind her market table, greens and aubergines laid out with handwritten price cards.</p>
